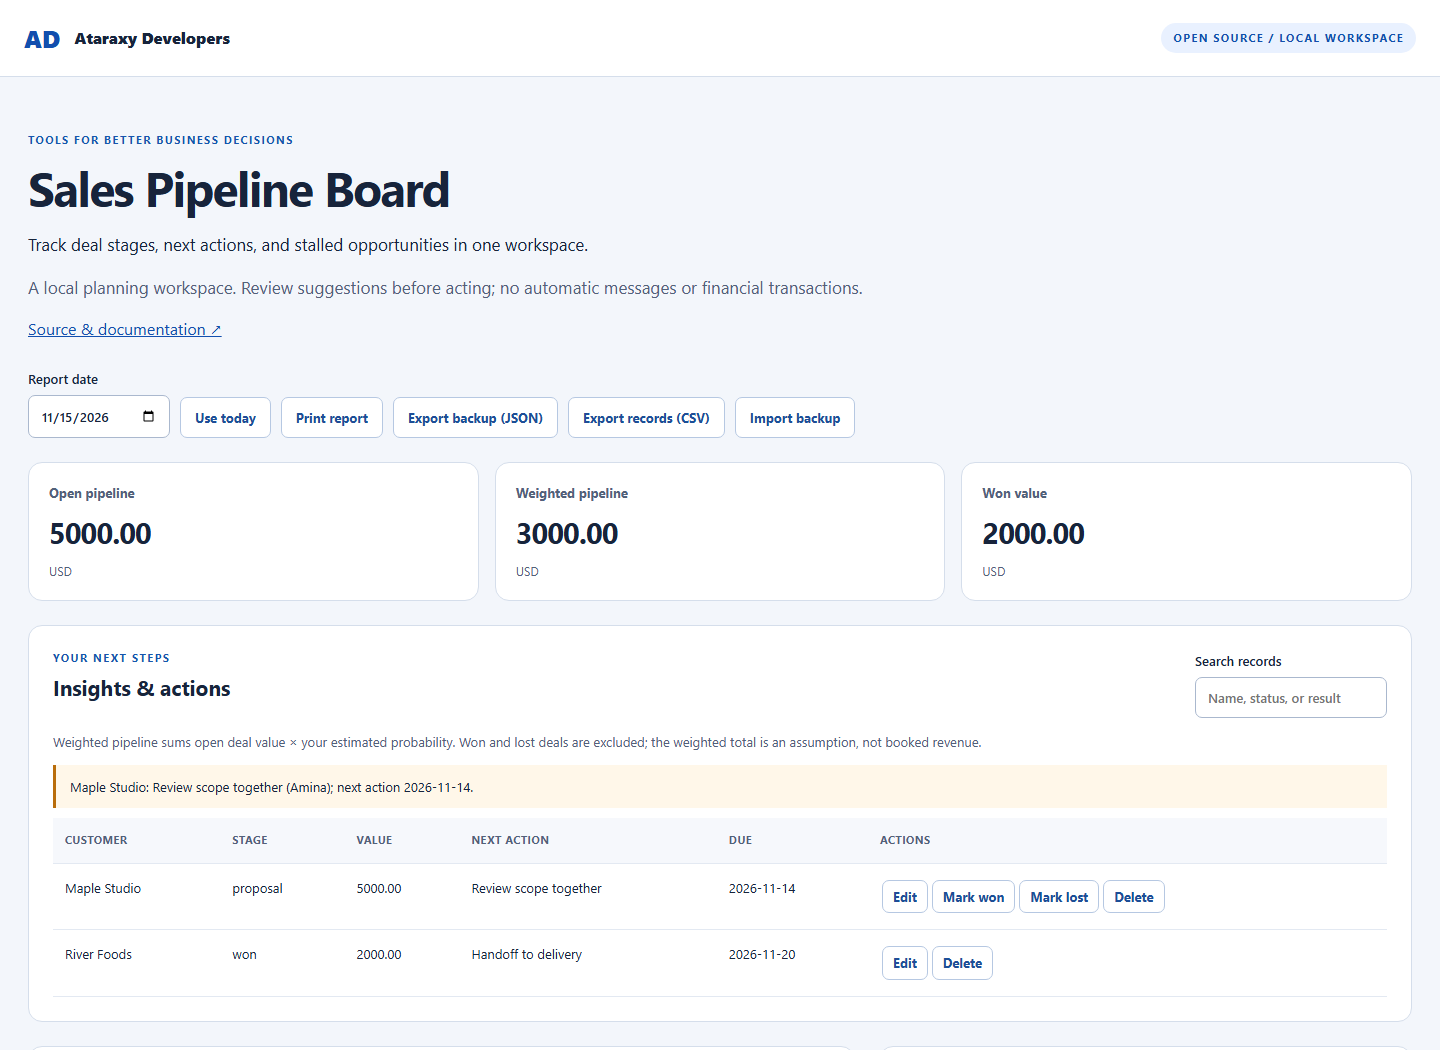
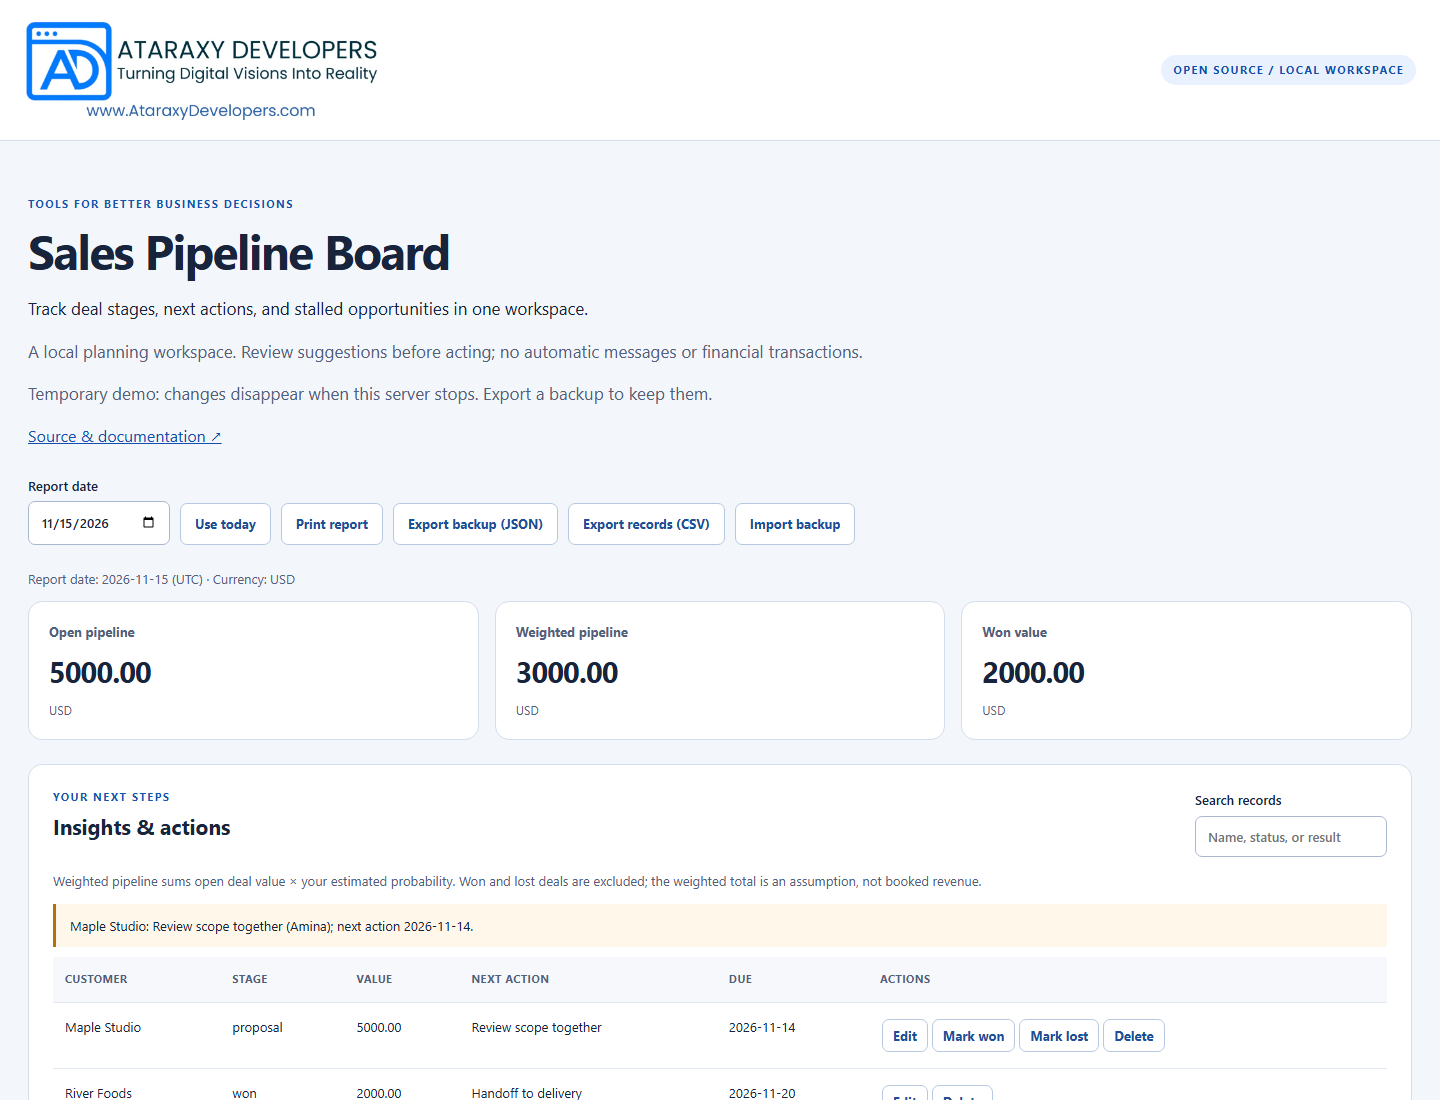
Use approved Ataraxy Developers branding

diff --git a/public/index.html b/public/index.html
@@ -4,16 +4,14 @@
     <meta charset="utf-8" />
     <meta name="viewport" content="width=device-width,initial-scale=1" />
     <title>Business workspace · Ataraxy Developers</title>
-    <link rel="icon" href="/favicon.svg" />
+    <link rel="icon" href="/ataraxy-developers-logo.png" type="image/png" />
     <link rel="stylesheet" href="/style.css" />
     <script type="module" src="/app.js"></script>
   </head>
   <body>
     <a class="skip" href="#main">Skip to workspace</a>
     <header>
-      <a class="brand" href="https://ataraxydevelopers.com"
-        >AD <span>Ataraxy Developers</span></a
-      ><span class="badge">OPEN SOURCE / LOCAL WORKSPACE</span>
+      <a class="brand" href="https://ataraxydevelopers.com"><img src="/ataraxy-developers-logo.png" alt="Ataraxy Developers — Turning Digital Visions Into Reality" width="1127" height="313" /></a><span class="badge">OPEN SOURCE / LOCAL WORKSPACE</span>
     </header>
     <main id="main">
       <section class="hero">

diff --git a/public/style.css b/public/style.css
@@ -40,10 +40,6 @@ header {
   font-weight: 800;
   text-decoration: none;
 }
-.brand span {
-  font-size: 16px;
-  color: #17243b;
-}
 .badge,
 .eyebrow {
   font-size: 11px;
@@ -364,3 +360,9 @@ footer {
     font-size: 27px;
   }
 }
+
+/* Use the complete, original company artwork without distortion. */
+header { flex-wrap: wrap; gap: 16px; background: #fff; }
+.brand { display: block; flex: 0 1 360px; min-width: 0; max-width: 100%; background: #fff; }
+.brand img { display: block; width: 360px; max-width: 100%; height: auto; }
+@media (max-width: 600px) { header { padding: 18px 20px; } .brand { flex-basis: 360px; } }

diff --git a/BRANDING.md b/BRANDING.md
@@ -1,0 +1,10 @@
+# Ataraxy Developers branding
+
+The company-approved logo is [public/ataraxy-developers-logo.png](public/ataraxy-developers-logo.png). It is the original PNG supplied by Ataraxy Developers on 2026-11-16, unchanged.
+
+- Preserve the complete artwork, its aspect ratio, and its white background.
+- Do not redraw it or substitute typed initials, an invented monogram, or generated artwork.
+- Use readable sizing and descriptive alternative text.
+- Capture screenshots from the working interface after this logo has loaded.
+
+SHA-256: 87ebc5a0092af0fff4524e805730ca3dc97c4483bd49f866528b8cdb97d422e7

diff --git a/README.md b/README.md
@@ -1,3 +1,5 @@
+<p><a href="https://ataraxydevelopers.com"><img src="public/ataraxy-developers-logo.png" alt="Ataraxy Developers — Turning Digital Visions Into Reality" width="520"></a></p>
+
 # Sales Pipeline Board
 
 [![CI](https://github.com/AtaraxyDevelopers/sales-pipeline-board/actions/workflows/ci.yml/badge.svg)](https://github.com/AtaraxyDevelopers/sales-pipeline-board/actions/workflows/ci.yml)

diff --git a/CHANGELOG.md b/CHANGELOG.md
@@ -1,5 +1,9 @@
 # Changelog
 
+## 0.1.2 — 2026-11-16
+
+Use the original, approved Ataraxy Developers logo and document its source. Update the interface and browser icon, serve the PNG correctly, and replace the README screenshot with a capture of the corrected app.
+
 ## 0.1.1
 
 - Correct optional date defaults when adding records.
